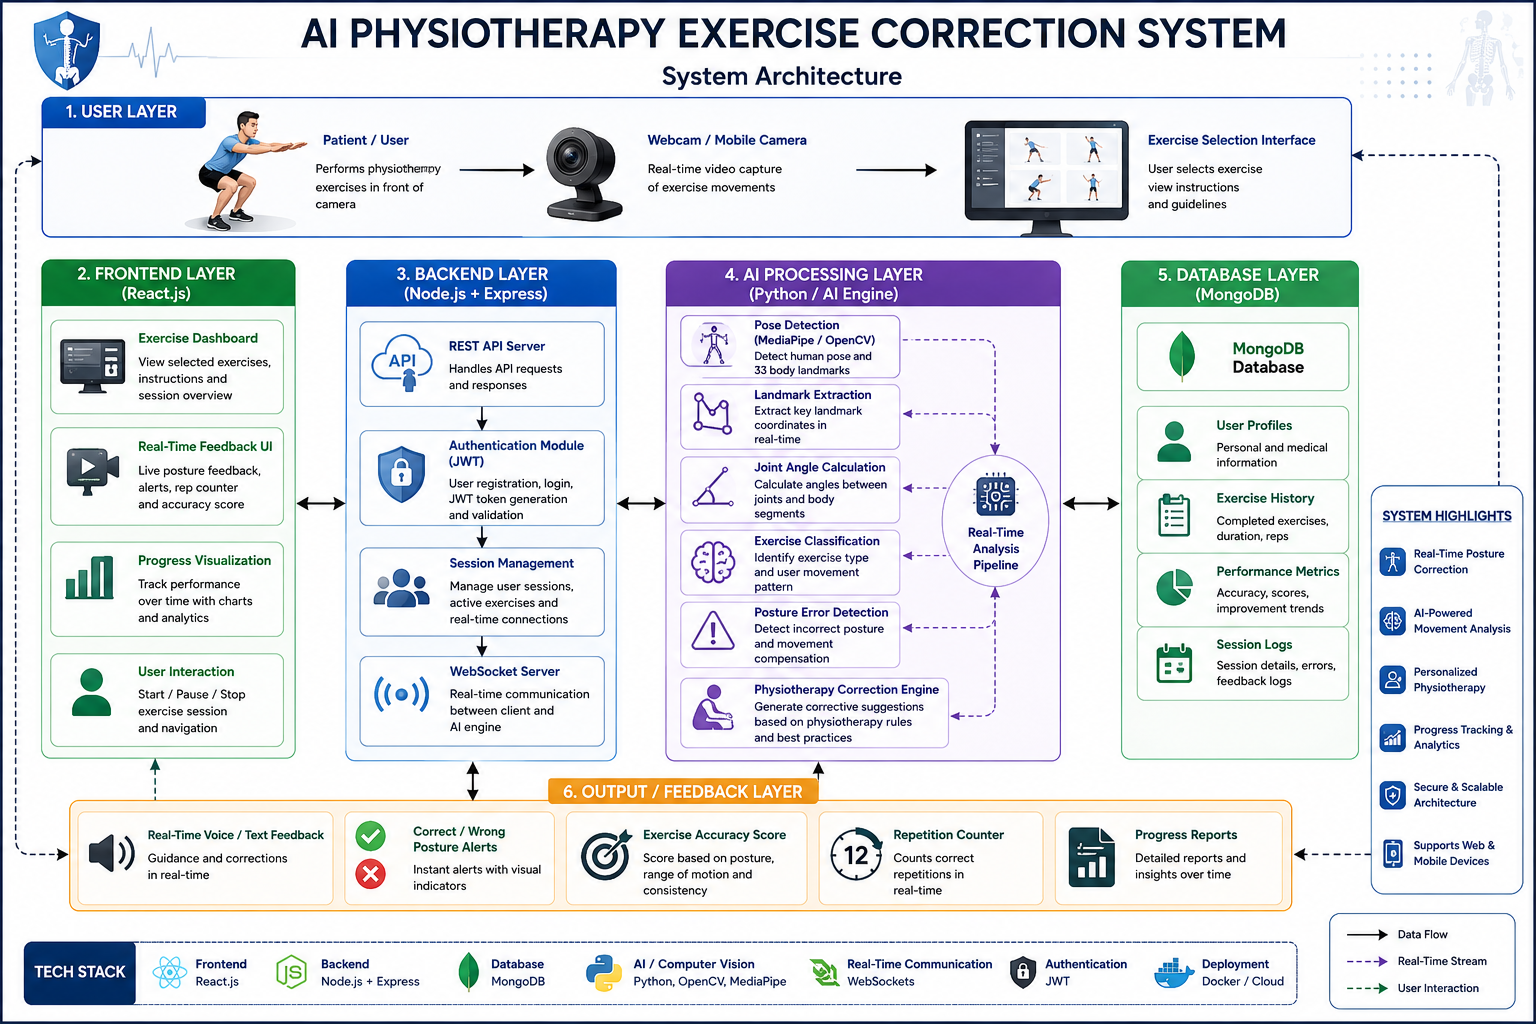
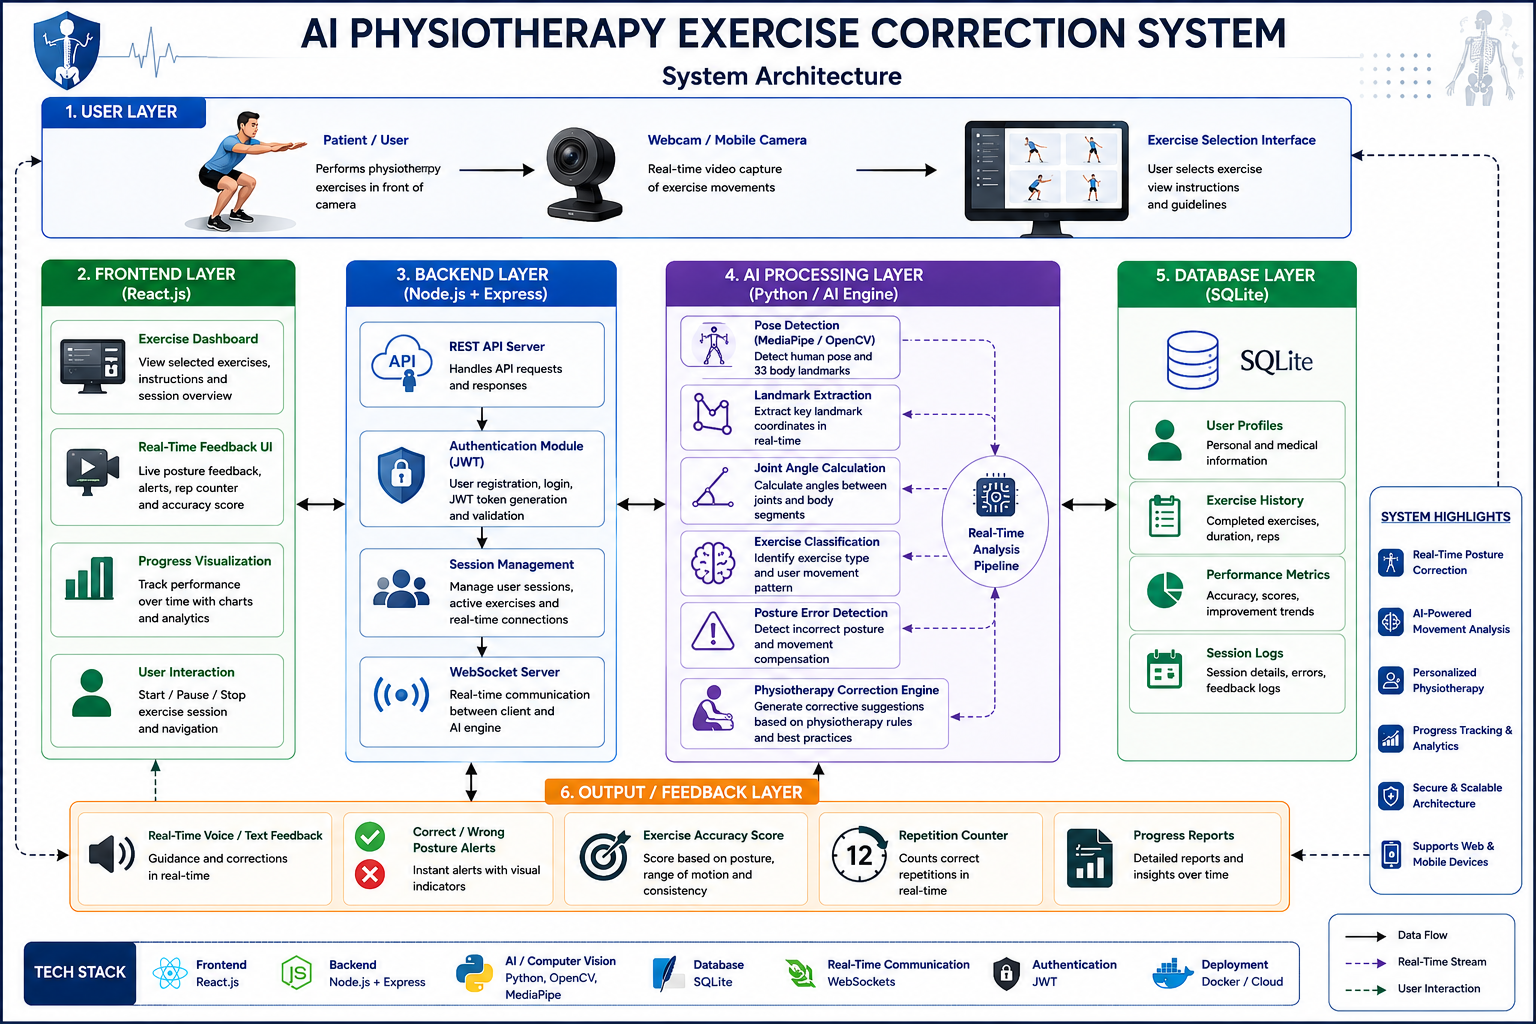
docs updated

diff --git a/docs/design_documentation.md b/docs/design_documentation.md
@@ -1,0 +1,172 @@
+# PhysioTracker System Design & Technical Documentation
+
+This document outlines the **System Architecture**, the **Frame-Processing Flowchart**, and the underlying **Methodology** of the **PhysioTracker** system. It has been prepared for your Engineering Design & Innovation (EDI) project and details how the application achieves high-performance, zero-latency physical rehabilitation tracking.
+
+---
+
+## 1. System Architecture
+
+The **PhysioTracker** system is built on a highly modular Client-Server architecture designed to optimize rendering performance, ensure local responsiveness, and utilize deep-learning models for precise exercise classification.
+
+```mermaid
+graph TD
+    %% Define Styles
+    classDef client fill:#e3f2fd,stroke:#1565c0,stroke-width:2px,color:#0d47a1;
+    classDef server fill:#efebe9,stroke:#5d4037,stroke-width:2px,color:#3e2723;
+    classDef db fill:#e8f5e9,stroke:#2e7d32,stroke-width:2px,color:#1b5e20;
+    classDef engine fill:#fff3e0,stroke:#ef6c00,stroke-width:2px,color:#e65100;
+
+    subgraph Client ["Client Layer (React TypeScript SPA)"]
+        UI["User Interface (Dashboard / Exercise Monitor)"]:::client
+        MP["MediaPipe Pose Engine (Webcam Frame -> 33 Landmarks)"]:::engine
+        EMA["EMA Smoothing Filter (Alpha=0.35)"]:::client
+        AE["Angle Extraction Engine"]:::client
+        PD["Phase Detection & Hysteresis Counter"]:::client
+        Renderer["HTML5 Canvas Live Skeleton Renderer"]:::client
+        Cache["Local Storage Session Cache"]:::db
+    end
+
+    subgraph Transport ["Network Layer (HTTPS)"]
+        REST["REST API Requests (Predict / Log Session)"]
+    end
+
+    subgraph Server ["Server Layer (Flask Web API on Render)"]
+        Flask["Gunicorn Web Server Workers"]:::server
+        CORS_M["Werkzeug CORS Header Manager"]:::server
+        Impute["Temporal Frame Padding & Imputation Engine"]:::server
+        BiLSTM["BiLSTM Neural Network (TensorFlow/Keras)"]:::server
+    end
+
+    subgraph Storage ["Storage Layer"]
+        PG["PostgreSQL (Production DB on Render)"]:::db
+        SQLite["SQLite (Local Fallback DB with WAL Concurrency)"]:::db
+    end
+
+    %% Connections
+    UI --> MP
+    MP --> AE
+    AE --> EMA
+    EMA --> PD
+    PD --> Renderer
+    Renderer --> UI
+    
+    %% API connections
+    EMA -.-->|Asynchronous 600ms batch| REST
+    REST --> Flask
+    Flask --> CORS_M
+    Flask --> Impute
+    Impute --> BiLSTM
+    
+    %% Storage connections
+    Flask --> PG
+    Flask --> SQLite
+    PD -->|On Finish / Save Offline| Cache
+    UI -->|Read Cache on Refresh| Cache
+    REST -.->|Log sessions to DB| Flask
+```
+
+### Architectural Highlights
+- **Decoupled Real-Time Core**: Rep-counting, phase detection, joint angle calculations, and skeletal rendering run completely client-side in React at a buttery-smooth **30 FPS**.
+- **Asynchronous Deep Learning**: Heavy inference using the 30-frame temporal BiLSTM classifier is performed asynchronously in the background at 600ms intervals, preventing UI freeze or input lag.
+- **Fail-Safe High Availability**: If the backend server goes offline or encounters a CORS block, the client enters `Offline Mode`, using local heuristic phase definitions and saving exercise progress in browser `localStorage`.
+- **Database Concurrency**: The SQLite storage engine operates in Write-Ahead Logging (WAL) mode, allowing concurrent write and read processes by multi-worker Gunicorn servers on Render.
+
+---
+
+## 2. Frame-Processing Flowchart
+
+The flowchart below traces the processing lifecycle of a single webcam frame through the system. It showcases the decoupled design that keeps local tracking separate from the server-side AI model checks.
+
+```mermaid
+flowchart TD
+    %% Style Definitions
+    classDef startEnd fill:#eceff1,stroke:#37474f,stroke-width:2px;
+    classDef process fill:#e3f2fd,stroke:#1565c0,stroke-width:2px;
+    classDef decision fill:#fff9c4,stroke:#fbc02d,stroke-width:2px;
+    classDef parallel fill:#e8f5e9,stroke:#2e7d32,stroke-width:2px;
+    
+    Start([Camera Frame Captured]):::startEnd --> MediaPipe[MediaPipe Pose Estimation]:::process
+    MediaPipe --> CheckPose{Pose Detected?}:::decision
+    
+    CheckPose -- No --> DrawNoPose[Draw 'NO POSE DETECTED' on Canvas]:::process --> EndFrame([Frame Render Completed]):::startEnd
+    
+    CheckPose -- Yes --> Extract[Extract 9 Joint Angles]:::process
+    Extract --> EMASmooth[Apply EMA Smoothing Filter]:::process
+    
+    %% Parallel Fork
+    EMASmooth --> Fork{Parallel Processing}:::parallel
+    
+    %% Local Synchronous Loop (30 FPS)
+    Fork -->|Sync Loop 30 FPS| PhaseDetect[detectExercisePhase: Compare smoothed angles with thresholds]:::process
+    PhaseDetect --> PhaseChanged{Phase Changed?}:::decision
+    PhaseChanged -- Yes --> IncrementRep[Increment Rep Count & Update Timer]:::process --> PlayVoice[Trigger Milestones / Feedback Speech]:::process --> DrawSkeleton[Draw Skeleton on Canvas: Green/Blue/Red]:::process
+    PhaseChanged -- No --> DrawSkeleton
+    DrawSkeleton --> EndFrame
+    
+    %% Asynchronous Background AI Loop (600ms)
+    Fork -->|Async Loop 600ms| Throttler{600ms Elapsed?}:::decision
+    Throttler -- Yes --> SendPredict[POST /predict Asynchronously in Background]:::process
+    SendPredict --> BackendResponse{Backend Responds?}:::decision
+    
+    BackendResponse -- Success --> UpdateState[Update exerciseMatch state & Form Quality]:::process --> DrawSkeleton
+    BackendResponse -- Error / CORS / Offline --> SetOfflineState[Set backendOffline=true, set exerciseMatch=true fallback]:::process --> DrawSkeleton
+    
+    Throttler -- No --> EndFrame
+```
+
+---
+
+## 3. Methodology
+
+PhysioTracker combines multi-joint kinematics, real-time signal filtering, and temporal recurrent neural networks to deliver precise, robust clinical assessment.
+
+### A. Biometric Landmark Extraction
+Webcam input is processed using **MediaPipe Pose**, a machine-learning model based on the BlazePose architecture. BlazePose tracks **33 3-dimensional skeletal landmarks** ($x, y, z$) in real-time, along with a per-landmark model visibility confidence ($v \in [0.0, 1.0]$).
+
+### B. Trigonometric Joint Angle Extraction
+To convert raw $x, y$ coordinates into biomechanical metrics, the system models the human body as a series of connected vectors. For any joint $B$ connected to adjacent landmarks $A$ and $C$, two vectors are defined:
+$$\vec{u} = A - B = (x_a - x_b, y_a - y_b)$$
+$$\vec{v} = C - B = (x_c - x_b, y_c - y_b)$$
+
+The joint angle $\theta$ (in degrees) is calculated using the dot product and magnitude relations:
+$$\cos(\theta) = \frac{\vec{u} \cdot \vec{v}}{\|\vec{u}\| \|\vec{v}\|} = \frac{u_x v_x + u_y v_y}{\sqrt{u_x^2 + u_y^2} \sqrt{v_x^2 + v_y^2}}$$
+$$\theta = \arccos\left(\text{clamp}(\cos(\theta), -1.0, 1.0)\right) \times \left(\frac{180}{\pi}\right)$$
+
+This formula is applied to extract **9 distinct joint flexions**:
+1. **Left Shoulder** flexion (Hip-Shoulder-Elbow)
+2. **Right Shoulder** flexion (Hip-Shoulder-Elbow)
+3. **Left Elbow** flexion (Shoulder-Elbow-Wrist)
+4. **Right Elbow** flexion (Shoulder-Elbow-Wrist)
+5. **Left Hip** flexion (Shoulder-Hip-Knee)
+6. **Right Hip** flexion (Shoulder-Hip-Knee)
+7. **Left Knee** flexion (Hip-Knee-Ankle)
+8. **Right Knee** flexion (Hip-Knee-Ankle)
+9. **Spine Angle** (Angle of the shoulder-to-hip vector relative to a vertical gravitational gravity line)
+
+### C. Signal Denoising (EMA Filter)
+Webcam video streams suffer from high-frequency coordinate jitter due to lighting changes, pixel noise, and clothing movement. To prevent jitter from corrupting our phase triggers, we apply an **Exponential Moving Average (EMA)** filter to all extracted joint angles:
+$$S_t = \alpha \cdot Y_t + (1 - \alpha) \cdot S_{t-1}$$
+- $Y_t$: Raw angle value computed from the current frame.
+- $S_t$: Denoised, smoothed angle output.
+- $S_{t-1}$: Smoothed angle from the preceding frame.
+- $\alpha$: Smoothing factor, set to **$0.35$** to prioritize rapid response while suppressing jitter.
+
+### D. Hysteresis-Based Phase Detection (Finite State Machine)
+Standard single-threshold rep-counters flicker and double-count when a patient pauses or shakes near a transition point. To solve this, PhysioTracker implements a **Finite State Machine (FSM)** with **hysteresis (double thresholds)**:
+
+For example, during a **Knee Squat**:
+- **Concentric Phase ('up' -> 'down')**: Triggered only when the knee angle falls below the deep threshold ($100^\circ$).
+- **Eccentric Phase ('down' -> 'up')**: Triggered only when the knee angle rises above the standing threshold ($150^\circ$).
+- **Hysteresis Zone ($100^\circ \le \theta \le 150^\circ$)**: The system holds the previous phase, absorbing minor postural tremors without false counts.
+
+A complete repetition is incremented when the FSM successfully completes a full loop transition (`down` $\rightarrow$ `up`).
+
+### E. Deep Learning Temporal Classification (BiLSTM)
+While heuristics count repetitions, a deep-learning classifier evaluates movement quality.
+1. **Temporal Features**: The system captures a rolling window of **30 consecutive frames** of raw coordinates. For 33 landmarks, this yields an input size of $30 \text{ frames} \times 99 \text{ features}$ ($33 \times [x, y, v]$).
+2. **Dynamic Posture Imputation**: If the webcam is positioned too close to the body (e.g. seated chest exercises), leg landmarks have low visibility ($v < 0.45$). To prevent TensorFlow errors and maintain upper-body classification accuracy, the backend automatically imputes a neutral standing baseline alignment directly under the active shoulders.
+3. **BiLSTM Neural Network Architecture**:
+   - The inputs are passed to a **Bidirectional Long Short-Term Memory (BiLSTM)** layer with 64 units.
+   - The Bidirectional structure processes the time-series both forward (past contexts) and backward (future predictions), creating a highly robust representation of dynamic curves.
+   - Dense layers with ReLU activations output probabilities over the trained exercise catalog via a final **Softmax activation** layer.
+   - The predicted class is checked against the patient's selected exercise. If they mismatch, the skeleton is colored **Blue** to signal a form error.